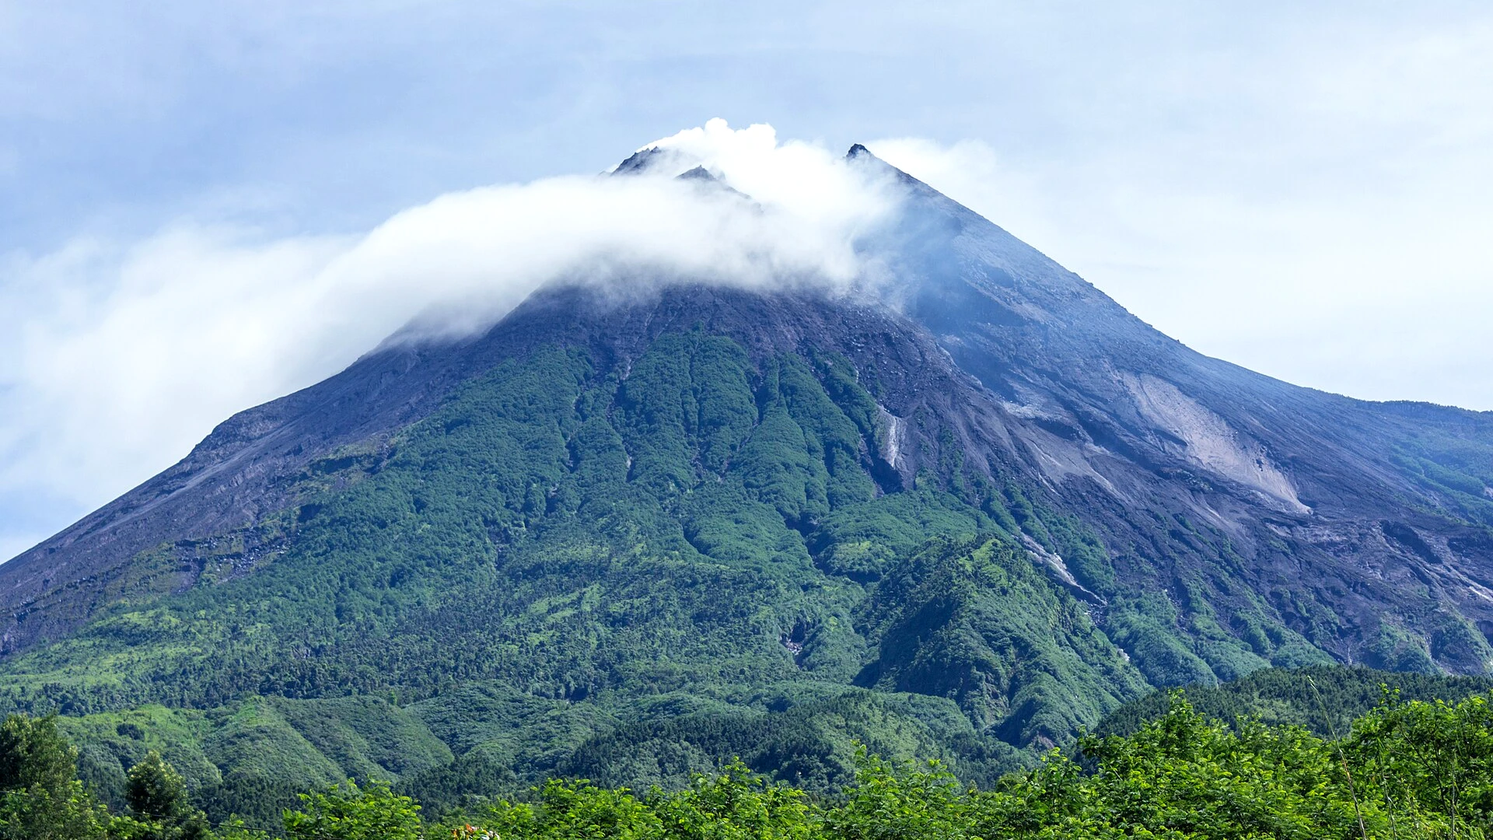
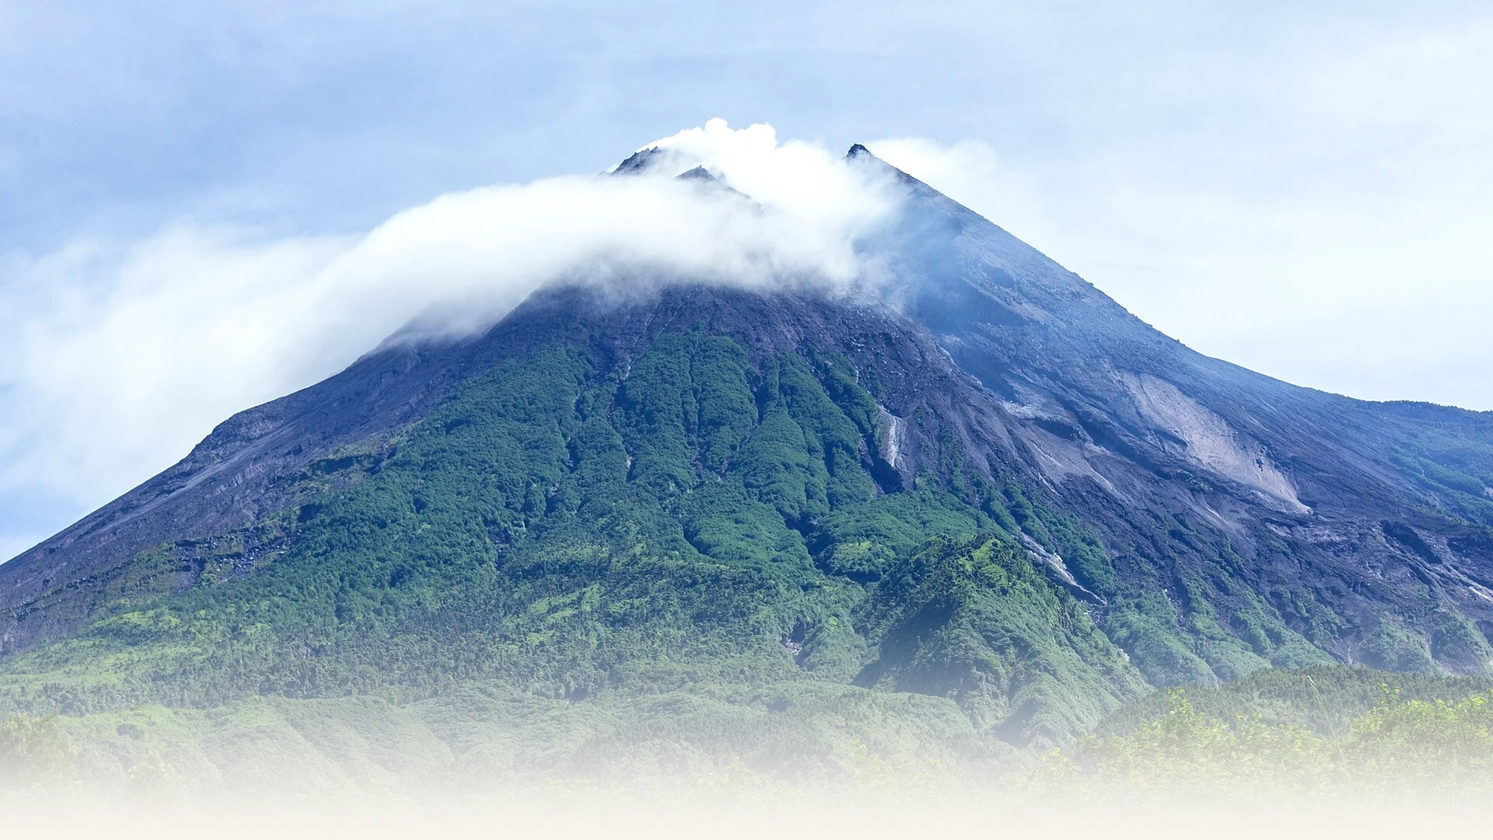
fix(web): remove all landing page dividers, eliminate glassmorphism, and harmonize left-right hero blend

Changed region(s): [[0.0, 0.7028, 1.0, 1.0]]

diff --git a/apps/web/src/app/_components/hero-section.tsx b/apps/web/src/app/_components/hero-section.tsx
@@ -120,7 +120,7 @@ export function HeroSection() {
         aria-hidden="true"
       />
       <div
-        className="absolute bottom-0 inset-x-0 h-64 sm:h-80 z-3 pointer-events-none bg-[linear-gradient(to_top,#F7F4EE_0%,rgba(247,244,238,0.92)_35%,rgba(247,244,238,0.50)_65%,transparent_100%)]"
+        className="absolute bottom-0 inset-x-0 h-72 sm:h-96 z-3 pointer-events-none bg-[linear-gradient(to_top,#F7F4EE_0%,#F7F4EE_40%,rgba(247,244,238,0.85)_65%,rgba(247,244,238,0.30)_85%,transparent_100%)]"
         aria-hidden="true"
       />
 
@@ -131,16 +131,16 @@ export function HeroSection() {
           animate={{ opacity: 1, y: 0 }}
           transition={{ duration: 0.6, ease: [0.23, 1, 0.32, 1] }}
         >
-          <div className="inline-flex items-center gap-2 px-4 py-1.5 rounded-full text-xs font-semibold bg-black/30 text-white border border-white/25 mb-5 sm:mb-6 shadow-sm backdrop-blur-md">
+          <div className="inline-flex items-center gap-2 px-4 py-1.5 rounded-full text-xs font-semibold bg-gelap-surface text-white border border-netral-border/40 mb-5 sm:mb-6 shadow-sm">
             <Sprout className="w-4 h-4 text-aksen shrink-0" aria-hidden="true" />
             <span className="font-bold">{'Pengadaan Bahan Pangan Dapur HoReKa & Supplier DIY'}</span>
-            <span className="w-1.5 h-1.5 rounded-full bg-white/60 inline-block shrink-0" aria-hidden="true" />
-            <span className="text-white/90 font-medium hidden sm:inline">D.I. Yogyakarta</span>
+            <span className="w-1.5 h-1.5 rounded-full bg-aksen/60 inline-block shrink-0" aria-hidden="true" />
+            <span className="text-netral-canvas font-medium hidden sm:inline">D.I. Yogyakarta</span>
           </div>
 
           <h1 className="text-4xl sm:text-6xl md:text-7xl font-extrabold text-white tracking-tight leading-[1.12] font-heading max-w-4xl mx-auto text-balance drop-shadow-[0_2px_8px_rgba(0,0,0,0.7)]">
             Digitalisasi Rantai Pasok Pangan,{' '}
-            <span className="text-aksen-light">One-Stop Supplier Pangan DIY.</span>
+            <span className="text-aksen">One-Stop Supplier Pangan DIY.</span>
           </h1>
 
           <p className="mt-5 sm:mt-6 text-base sm:text-lg md:text-xl text-white/95 font-body leading-relaxed max-w-2xl mx-auto text-balance font-medium drop-shadow-[0_1px_4px_rgba(0,0,0,0.6)]">
@@ -161,10 +161,10 @@ export function HeroSection() {
               href="/#komoditas"
               onClick={handleScrollToKomoditas}
               aria-label="Lihat Komoditas Pangan"
-              className="w-full sm:w-auto inline-flex items-center justify-center px-8 py-4 text-sm font-bold font-heading rounded-full bg-white/20 hover:bg-white/30 text-white border border-white/30 shadow-md hover:shadow-lg backdrop-blur-md transition-all duration-200 hover:scale-[1.03] active:scale-[0.98] min-h-[48px]"
+              className="w-full sm:w-auto inline-flex items-center justify-center px-8 py-4 text-sm font-bold font-heading rounded-full bg-white hover:bg-netral-canvas text-gelap hover:text-primer border border-netral-border/80 shadow-md hover:shadow-lg transition-all duration-200 hover:scale-[1.03] active:scale-[0.98] min-h-[48px]"
             >
               <span>Lihat Komoditas Pangan</span>
-              <ArrowRight className="w-4 h-4 ml-2 text-white/80" aria-hidden="true" />
+              <ArrowRight className="w-4 h-4 ml-2 text-gelap/60" aria-hidden="true" />
             </Link>
           </div>
 
@@ -172,17 +172,17 @@ export function HeroSection() {
             <p className="text-[11px] font-bold uppercase tracking-wider text-white/90 mb-4 font-heading drop-shadow-[0_1px_2px_rgba(0,0,0,0.6)]">
               Didukung Sinergi Ekosistem Sourcing &amp; Perbankan D.I. Yogyakarta
             </p>
-            <div className="flex flex-wrap items-center justify-center gap-3 sm:gap-6 text-xs font-semibold text-white">
-              <span className="inline-flex items-center gap-2 bg-black/35 px-4 py-2 rounded-full border border-white/20 shadow-md backdrop-blur-md">
-                <ShieldCheck className="w-4 h-4 text-aksen shrink-0" aria-hidden="true" />
+            <div className="flex flex-wrap items-center justify-center gap-3 sm:gap-6 text-xs font-semibold text-gelap">
+              <span className="inline-flex items-center gap-2 bg-white px-4 py-2 rounded-full border border-netral-border/60 shadow-xs">
+                <ShieldCheck className="w-4 h-4 text-primer shrink-0" aria-hidden="true" />
                 <span>100% Proteksi Escrow BPD DIY</span>
               </span>
-              <span className="inline-flex items-center gap-2 bg-black/35 px-4 py-2 rounded-full border border-white/20 shadow-md backdrop-blur-md">
-                <Clock className="w-4 h-4 text-aksen shrink-0" aria-hidden="true" />
+              <span className="inline-flex items-center gap-2 bg-white px-4 py-2 rounded-full border border-netral-border/60 shadow-xs">
+                <Clock className="w-4 h-4 text-primer shrink-0" aria-hidden="true" />
                 <span>Layanan Logistik Dingin 24 Jam</span>
               </span>
-              <span className="inline-flex items-center gap-2 bg-black/35 px-4 py-2 rounded-full border border-white/20 shadow-md backdrop-blur-md">
-                <MapPin className="w-4 h-4 text-aksen shrink-0" aria-hidden="true" />
+              <span className="inline-flex items-center gap-2 bg-white px-4 py-2 rounded-full border border-netral-border/60 shadow-xs">
+                <MapPin className="w-4 h-4 text-primer shrink-0" aria-hidden="true" />
                 <span>5 Kabupaten/Kota (Kulon Progo, Bantul, Sleman, Gunungkidul)</span>
               </span>
             </div>

diff --git a/apps/web/src/app/_components/mekanisme-pooling.tsx b/apps/web/src/app/_components/mekanisme-pooling.tsx
@@ -31,7 +31,7 @@ export function MekanismePoolingSection() {
                 Supplier pangan dan Gapoktan mitra mengumumkan ketersediaan pasokan dengan batas minimum tonase muatan truk (25 kg hingga 2 ton).
               </p>
             </div>
-            <div className="mt-4 pt-3 border-t border-netral-border/50 text-[11px] font-semibold text-primer flex items-center gap-1">
+            <div className="mt-4 pt-2 text-[11px] font-semibold text-primer flex items-center gap-1">
               <CalendarClock className="w-3.5 h-3.5" />
               <span>Jadwal Terbuka Transparan</span>
             </div>
@@ -47,7 +47,7 @@ export function MekanismePoolingSection() {
                 Dapur memesan porsi (25 sampai 100 kg). Saldo pesanan dikunci dengan aman di rekening penampung escrow terproteksi.
               </p>
             </div>
-            <div className="mt-4 pt-3 border-t border-netral-border/50 text-[11px] font-semibold text-sekunder-dark flex items-center gap-1">
+            <div className="mt-4 pt-2 text-[11px] font-semibold text-sekunder-dark flex items-center gap-1">
               <ShieldCheck className="w-3.5 h-3.5" />
               <span>Dana Terproteksi 100%</span>
             </div>
@@ -63,7 +63,7 @@ export function MekanismePoolingSection() {
                 Panen tiba sore hari di Hub Transit untuk kalibrasi timbangan digital presisi dan penyortiran fisik grade A.
               </p>
             </div>
-            <div className="mt-4 pt-3 border-t border-netral-border/50 text-[11px] font-semibold text-aksen-dark flex items-center gap-1">
+            <div className="mt-4 pt-2 text-[11px] font-semibold text-aksen-dark flex items-center gap-1">
               <Scale className="w-3.5 h-3.5" />
               <span>Zero Selisih Timbangan</span>
             </div>
@@ -79,7 +79,7 @@ export function MekanismePoolingSection() {
                 Armada mengantar komoditas pukul 04:30 WIB. Koki memvalidasi kualitas via QC digital sebelum dana escrow dilepas ke supplier.
               </p>
             </div>
-            <div className="mt-4 pt-3 border-t border-netral-border/50 text-[11px] font-semibold text-primer flex items-center gap-1">
+            <div className="mt-4 pt-2 text-[11px] font-semibold text-primer flex items-center gap-1">
               <Truck className="w-3.5 h-3.5" />
               <span>Drop Pukul 04:30 Subuh</span>
             </div>
@@ -87,7 +87,7 @@ export function MekanismePoolingSection() {
         </div>
 
         <div className="bg-white rounded-3xl border border-netral-border p-6 sm:p-8 shadow-xs hover:shadow-md transition-shadow max-w-4xl mx-auto">
-          <div className="flex flex-col sm:flex-row sm:items-center justify-between gap-4 pb-5 border-b border-netral-border/60">
+          <div className="flex flex-col sm:flex-row sm:items-center justify-between gap-4 pb-4">
             <div>
               <div className="inline-flex items-center gap-1.5 px-2.5 py-1 rounded-full text-xs font-semibold bg-primer-light/40 text-primer mb-1.5">
                 <span className="w-2 h-2 rounded-full bg-primer" />
@@ -139,7 +139,7 @@ export function MekanismePoolingSection() {
             </div>
           </div>
 
-          <div className="mt-6 flex flex-col sm:flex-row items-center justify-between gap-4 pt-5 border-t border-netral-border/60">
+          <div className="mt-6 flex flex-col sm:flex-row items-center justify-between gap-4 pt-3">
             <Link
               href="/register"
               className="w-full sm:w-auto inline-flex items-center justify-center px-6 py-3 text-xs font-bold rounded-full bg-primer text-white hover:bg-primer-hover shadow-xs transition-all hover:scale-[1.02] min-h-[44px]"

diff --git a/apps/web/src/app/_components/solutions-grid.tsx b/apps/web/src/app/_components/solutions-grid.tsx
@@ -11,7 +11,7 @@ export function SolutionsGridSection() {
   const [selectedFacility, setSelectedFacility] = useState<FacilityDetail | null>(null);
 
   return (
-    <section id="langkah" className="py-16 md:py-24 px-4 sm:px-6 lg:px-8 bg-white border-t border-netral-border/60">
+    <section id="langkah" className="py-16 md:py-24 px-4 sm:px-6 lg:px-8 bg-white">
       <div className="max-w-7xl mx-auto">
         <div className="text-center max-w-3xl mx-auto mb-14">
           <span className="text-xs font-bold tracking-wider uppercase text-sekunder">
@@ -164,7 +164,7 @@ export function SolutionsGridSection() {
                   <span className="text-[10px] sm:text-xs font-bold text-aksen-light uppercase tracking-wider line-clamp-1">
                     {FACILITIES[0]?.badge}
                   </span>
-                  <div className="w-6 h-6 sm:w-8 sm:h-8 rounded-full bg-white/20 backdrop-blur-sm flex items-center justify-center text-white group-hover:bg-sekunder group-hover:text-white transition-colors shrink-0">
+                  <div className="w-6 h-6 sm:w-8 sm:h-8 rounded-full bg-white/25 flex items-center justify-center text-white group-hover:bg-sekunder group-hover:text-white transition-colors shrink-0">
                     <ArrowUpRight className="w-3.5 h-3.5 sm:w-4 sm:h-4" />
                   </div>
                 </div>
@@ -212,7 +212,7 @@ export function SolutionsGridSection() {
                   <span className="text-[10px] sm:text-[11px] font-bold text-aksen-light uppercase tracking-wider line-clamp-1">
                     {FACILITIES[1]?.badge}
                   </span>
-                  <div className="w-6 h-6 sm:w-7 sm:h-7 rounded-full bg-white/20 backdrop-blur-sm flex items-center justify-center text-white group-hover:bg-sekunder transition-colors shrink-0">
+                  <div className="w-6 h-6 sm:w-7 sm:h-7 rounded-full bg-white/25 flex items-center justify-center text-white group-hover:bg-sekunder transition-colors shrink-0">
                     <ArrowUpRight className="w-3.5 h-3.5" />
                   </div>
                 </div>
@@ -260,7 +260,7 @@ export function SolutionsGridSection() {
                   <span className="text-[10px] sm:text-[11px] font-bold text-aksen-light uppercase tracking-wider line-clamp-1">
                     {FACILITIES[2]?.badge}
                   </span>
-                  <div className="w-6 h-6 sm:w-7 sm:h-7 rounded-full bg-white/20 backdrop-blur-sm flex items-center justify-center text-white group-hover:bg-sekunder transition-colors shrink-0">
+                  <div className="w-6 h-6 sm:w-7 sm:h-7 rounded-full bg-white/25 flex items-center justify-center text-white group-hover:bg-sekunder transition-colors shrink-0">
                     <ArrowUpRight className="w-3.5 h-3.5" />
                   </div>
                 </div>
@@ -308,7 +308,7 @@ export function SolutionsGridSection() {
                   <span className="text-[10px] sm:text-[11px] font-bold text-white/90 uppercase tracking-wider line-clamp-1">
                     {FACILITIES[3]?.badge}
                   </span>
-                  <div className="w-6 h-6 sm:w-7 sm:h-7 rounded-full bg-white/20 backdrop-blur-sm flex items-center justify-center text-white group-hover:bg-white group-hover:text-sekunder transition-colors shrink-0">
+                  <div className="w-6 h-6 sm:w-7 sm:h-7 rounded-full bg-white/25 flex items-center justify-center text-white group-hover:bg-white group-hover:text-sekunder transition-colors shrink-0">
                     <PackageCheck className="w-3.5 h-3.5" />
                   </div>
                 </div>

diff --git a/apps/web/src/app/_components/kalkulator-penghematan.tsx b/apps/web/src/app/_components/kalkulator-penghematan.tsx
@@ -20,7 +20,7 @@ export function KalkulatorPenghematan() {
   };
 
   return (
-    <section id="kalkulator" className="py-16 px-4 sm:px-6 lg:px-8 bg-netral-surface/60 border-y border-netral-border">
+    <section id="kalkulator" className="py-16 px-4 sm:px-6 lg:px-8 bg-netral-surface/60">
       <div className="max-w-7xl mx-auto">
         <div className="text-center max-w-3xl mx-auto mb-12">
           <span className="inline-flex items-center gap-1.5 px-3 py-1 rounded-full text-xs font-semibold bg-primer-surface/10 text-primer-deep border border-primer-pendukung/30 mb-3">
@@ -116,7 +116,7 @@ export function KalkulatorPenghematan() {
               </div>
             </div>
 
-            <div className="mt-6 pt-4 border-t border-netral-border flex items-center gap-2 text-xs text-gelap/70">
+            <div className="mt-6 pt-4 flex items-center gap-2 text-xs text-gelap/70">
               <ShieldCheck className="w-4 h-4 text-primer shrink-0" />
               <span>Simulasi berdasarkan deviasi harga pasar eceran vs kontrak supplier pangan DIY 2026</span>
             </div>
@@ -139,14 +139,14 @@ export function KalkulatorPenghematan() {
                   </div>
                 </div>
 
-                <div className="pt-4 border-t border-white/15">
+                <div className="pt-3">
                   <div className="text-xs text-white/70">Potensi Hemat per Tahun</div>
                   <div className="text-xl sm:text-2xl font-extrabold font-heading text-white mt-0.5 font-mono tabular-nums">
                     {formatRupiah(yearlySavings)}
                   </div>
                 </div>
 
-                <ul className="space-y-2 pt-4 border-t border-white/15 text-xs text-white/90">
+                <ul className="space-y-2 pt-3 text-xs text-white/90">
                   <li className="flex items-center gap-2">
                     <Check className="w-4 h-4 text-aksen shrink-0" />
                     <span>Bebas biaya mark-up tengkulak</span>

diff --git a/apps/web/src/app/_components/prefooter-cta.tsx b/apps/web/src/app/_components/prefooter-cta.tsx
@@ -25,11 +25,11 @@ export function PreFooterCtaSection() {
               sizes="(max-width: 1280px) 100vw, 1280px"
               className="object-cover object-center brightness-[0.7] contrast-[1.1]"
             />
-            <div className="absolute inset-0 bg-primer-darkest/80 backdrop-blur-[1px]" />
+            <div className="absolute inset-0 bg-primer-darkest/85" />
           </div>
 
           <div className="relative z-10 max-w-2xl mx-auto">
-            <span className="inline-flex items-center px-3 py-1 rounded-full text-xs font-semibold bg-white/15 text-white/90 backdrop-blur-sm border border-white/20 mb-4">
+            <span className="inline-flex items-center px-3 py-1 rounded-full text-xs font-semibold bg-primer-deep text-white border border-white/30 mb-4 shadow-xs">
               <ShieldCheck className="w-3.5 h-3.5 mr-1 text-aksen" />
               Ekosistem Kuliner &amp; Supplier Pangan D.I. Yogyakarta
             </span>
@@ -53,7 +53,7 @@ export function PreFooterCtaSection() {
 
               <Link
                 href="/buyer/legalitas"
-                className="w-full sm:w-auto inline-flex items-center justify-center px-6 py-3.5 text-xs sm:text-sm font-semibold rounded-full bg-white/15 text-white hover:bg-white/25 border border-white/25 backdrop-blur-sm transition-all focus-visible:ring-2 focus-visible:ring-white min-h-[44px]"
+                className="w-full sm:w-auto inline-flex items-center justify-center px-6 py-3.5 text-xs sm:text-sm font-bold font-heading rounded-full bg-white text-primer-deep hover:bg-netral-canvas shadow-md transition-all hover:scale-[1.02] focus-visible:ring-2 focus-visible:ring-white min-h-[44px]"
               >
                 Lanjutkan Verifikasi Berkas
               </Link>

diff --git a/apps/web/src/app/_components/sentra-komoditas.tsx b/apps/web/src/app/_components/sentra-komoditas.tsx
@@ -95,7 +95,7 @@ export function SentraKomoditasSection() {
   };
 
   return (
-    <section id="komoditas" className="py-16 md:py-24 bg-white border-y border-netral-border/50">
+    <section id="komoditas" className="py-16 md:py-24 bg-white">
       <div className="max-w-7xl mx-auto px-4 sm:px-6 lg:px-8">
         <div className="flex flex-col md:flex-row md:items-end justify-between mb-8 gap-6">
           <div className="max-w-2xl">
@@ -245,7 +245,7 @@ export function SentraKomoditasSection() {
                       </div>
                     </div>
 
-                    <div className="mt-4 pt-3.5 border-t border-netral-border/60 flex items-center justify-between gap-2">
+                    <div className="mt-4 pt-2 flex items-center justify-between gap-2">
                       <span className="text-[11px] text-gelap/85 font-semibold whitespace-nowrap shrink-0">Min. 25 kg</span>
                       <Link
                         href="/register"
@@ -294,7 +294,7 @@ export function SentraKomoditasSection() {
             )}
 
             {totalPages > 1 && (
-              <div className="mt-8 flex flex-col sm:flex-row items-center justify-between gap-4 pt-6 border-t border-netral-border/70">
+              <div className="mt-8 flex flex-col sm:flex-row items-center justify-between gap-4 pt-4">
                 <span className="text-xs text-gelap/70 font-body">
                   Menampilkan <span className="font-bold text-primer font-mono tabular-nums">{Math.min(filteredItems.length, (currentPage - 1) * ITEMS_PER_PAGE + 1)}–{Math.min(filteredItems.length, currentPage * ITEMS_PER_PAGE)}</span> dari <span className="font-bold text-gelap font-mono tabular-nums">{filteredItems.length}</span> komoditas
                 </span>

diff --git a/apps/web/src/app/_components/solutions/facility-card.tsx b/apps/web/src/app/_components/solutions/facility-card.tsx
@@ -44,7 +44,7 @@ export function FacilityCard({ facility, index, onSelect }: FacilityCardProps) {
             sizes="(max-width: 640px) 100vw, (max-width: 1024px) 50vw, 400px"
             className="object-cover group-hover:scale-105 transition-transform duration-500"
           />
-          <div className="absolute top-3 left-3 bg-white/95 backdrop-blur-sm border border-netral-border/80 px-2.5 py-1 rounded-full text-[11px] font-bold text-primer flex items-center gap-1.5 shadow-xs">
+          <div className="absolute top-3 left-3 bg-white border border-netral-border/80 px-2.5 py-1 rounded-full text-[11px] font-bold text-primer flex items-center gap-1.5 shadow-xs">
             {getFacilityIcon(facility.id)}
             <span>{facility.badge}</span>
           </div>
@@ -58,8 +58,7 @@ export function FacilityCard({ facility, index, onSelect }: FacilityCardProps) {
           {facility.summary}
         </p>
       </div>
-
-      <div className="mt-5 pt-3.5 border-t border-netral-border/60 flex items-center justify-between text-xs font-semibold text-primer group-hover:text-primer-hover transition-colors">
+      <div className="mt-5 pt-2 flex items-center justify-between text-xs font-semibold text-primer group-hover:text-primer-hover transition-colors">
         <span>Periksa SOP Inspeksi</span>
         <div className="w-7 h-7 rounded-full bg-primer-light/80 group-hover:bg-primer group-hover:text-white flex items-center justify-center transition-colors">
           <ArrowUpRight className="w-4 h-4" aria-hidden="true" />

diff --git a/apps/web/src/app/_components/alur-pengadaan.tsx b/apps/web/src/app/_components/alur-pengadaan.tsx
@@ -70,7 +70,7 @@ export function AlurPengadaan() {
           <h2 className="text-2xl sm:text-4xl font-extrabold text-gelap font-heading tracking-tight">
             Bagaimana PasokMataram Mengamankan Dapur Anda
           </h2>
-          <p className="mt-3 text-sm sm:text-base text-gelap-muted font-body">
+          <p className="mt-3 text-sm sm:text-base text-gelap/85 font-body">
             Empat langkah terintegrasi menghubungkan pesanan dapur HoReKa langsung ke ekosistem supplier pangan lokal D.I. Yogyakarta.
           </p>
         </div>
@@ -111,7 +111,7 @@ export function AlurPengadaan() {
                   </ul>
                 </div>
 
-                <div className="mt-6 pt-3 border-t border-netral-border/60 text-[11px] font-bold text-primer flex items-center justify-between">
+                <div className="mt-6 pt-3 text-[11px] font-bold text-primer flex items-center justify-between">
                   <span>Tahap {item.step}</span>
                   <span className="text-gelap/40 font-normal">Selesai Terverifikasi</span>
                 </div>

diff --git a/apps/web/src/components/pwa-floating-button.tsx b/apps/web/src/components/pwa-floating-button.tsx
@@ -73,7 +73,7 @@ export function PwaFloatingButton() {
 
         <div
           role="tooltip"
-          className="absolute bottom-full right-0 mb-2 hidden group-hover:block sm:w-60 p-2.5 bg-gelap/95 text-white text-[11px] rounded-xl shadow-lg border border-white/10 pointer-events-none backdrop-blur-sm transition-opacity"
+          className="absolute bottom-full right-0 mb-2 hidden group-hover:block sm:w-60 p-2.5 bg-gelap text-white text-[11px] rounded-xl shadow-lg border border-white/10 pointer-events-none transition-opacity"
         >
           <div className="font-semibold text-aksen flex items-center gap-1 mb-0.5">
             <Sparkles className="w-3.5 h-3.5" />
@@ -93,7 +93,7 @@ export function PwaFloatingButton() {
               animate={{ opacity: 1 }}
               exit={{ opacity: 0 }}
               onClick={() => setModalOpen(false)}
-              className="fixed inset-0 bg-black/60 backdrop-blur-sm"
+              className="fixed inset-0 bg-black/60"
               aria-hidden="true"
             />
 

diff --git a/apps/web/src/app/_components/paket-layanan.tsx b/apps/web/src/app/_components/paket-layanan.tsx
@@ -130,7 +130,7 @@ export function PaketLayanan() {
           <h2 className="text-2xl sm:text-4xl font-extrabold text-gelap font-heading tracking-tight">
             Pilihan Paket Akun Sesuai Skala Bisnis Anda
           </h2>
-          <p className="mt-3 text-sm sm:text-base text-gelap-muted font-body">
+          <p className="mt-3 text-sm sm:text-base text-gelap/85 font-body">
             Tanpa biaya tersembunyi. Dapur restoran hanya membayar transaksi yang berhasil, supplier menerima pembayaran penuh terproteksi escrow.
           </p>
         </div>
@@ -200,7 +200,7 @@ export function PaketLayanan() {
                     {tier.target}
                   </p>
 
-                  <div className="my-5 pb-5 border-b border-current/15">
+                  <div className="my-5 pb-3">
                     <span className="text-2xl sm:text-3xl font-extrabold font-heading tracking-tight">
                       {tier.priceMonthly}
                     </span>

diff --git a/tests/e2e/design-system-harmony.test.ts b/tests/e2e/design-system-harmony.test.ts
@@ -71,7 +71,7 @@ describe('Minggu 1.9 - Unified Design System & Layout Harmony Verification', () 
 
     expect(buyerContent).toContain('DashboardShell');
     expect(shellContent).toContain('fixed inset-0 z-50 md:hidden flex');
-    expect(shellContent).toContain('bg-black/50 backdrop-blur-xs');
+    expect(shellContent).toContain('bg-black/50');
     expect(shellContent).toContain('min-h-[44px]');
   });
 
@@ -88,7 +88,7 @@ describe('Minggu 1.9 - Unified Design System & Layout Harmony Verification', () 
     expect(supplierContent).toContain("title: 'PENGATURAN'");
     expect(supplierContent).toContain('DashboardShell');
     expect(shellContent).toContain('fixed inset-0 z-50 md:hidden flex');
-    expect(shellContent).toContain('bg-black/50 backdrop-blur-xs');
+    expect(shellContent).toContain('bg-black/50');
     expect(shellContent).toContain('min-h-[44px]');
   });
 

diff --git a/apps/web/src/app/_components/story-mission.tsx b/apps/web/src/app/_components/story-mission.tsx
@@ -30,7 +30,7 @@ export function StoryMissionSection() {
                 <div className="absolute inset-0 bg-gradient-to-t from-gelap/20 via-transparent to-transparent pointer-events-none" />
               </div>
 
-              <div className="absolute top-4 right-4 sm:top-5 sm:right-5 bg-white/95 backdrop-blur-sm border border-netral-border/80 px-3.5 py-2 rounded-2xl shadow-md text-xs font-bold text-primer flex items-center gap-1.5 whitespace-nowrap">
+              <div className="absolute top-4 right-4 sm:top-5 sm:right-5 bg-white border border-netral-border/80 px-3.5 py-2 rounded-2xl shadow-md text-xs font-bold text-primer flex items-center gap-1.5 whitespace-nowrap">
                 <ShieldCheck className="w-4 h-4 text-primer shrink-0" aria-hidden="true" />
                 <span>Panen Terkurasi Grade A</span>
               </div>
